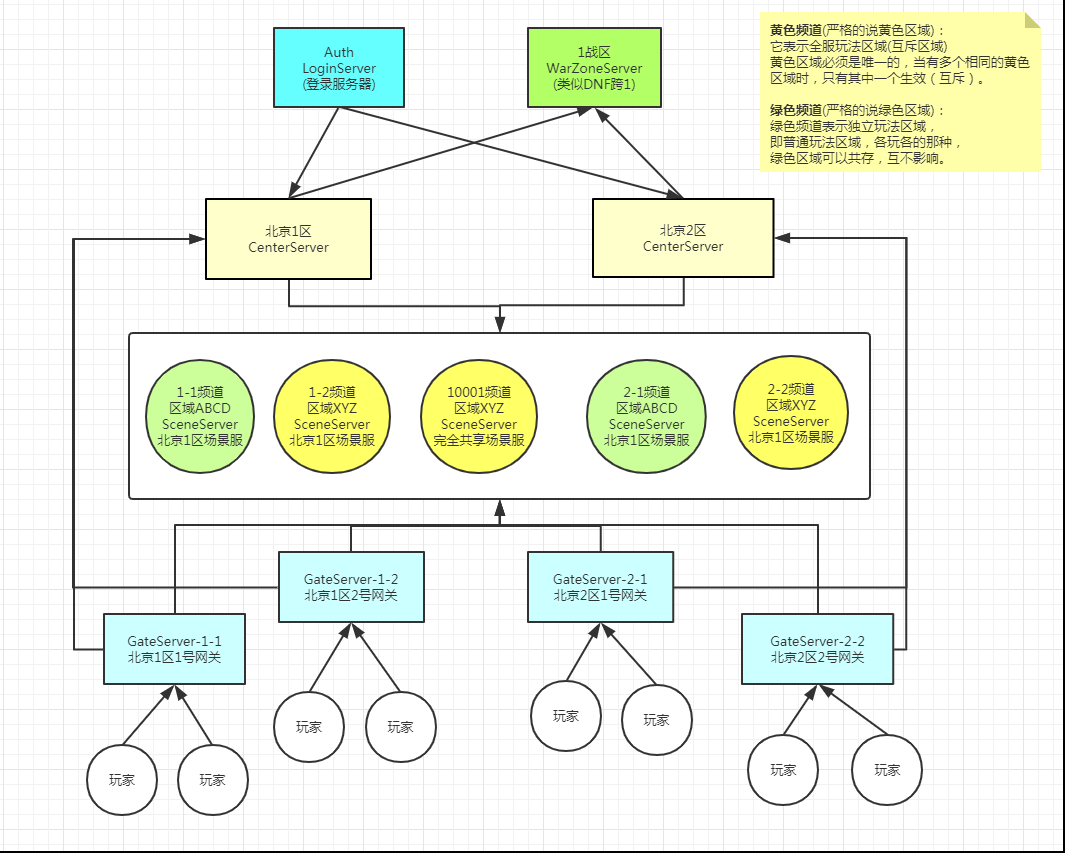
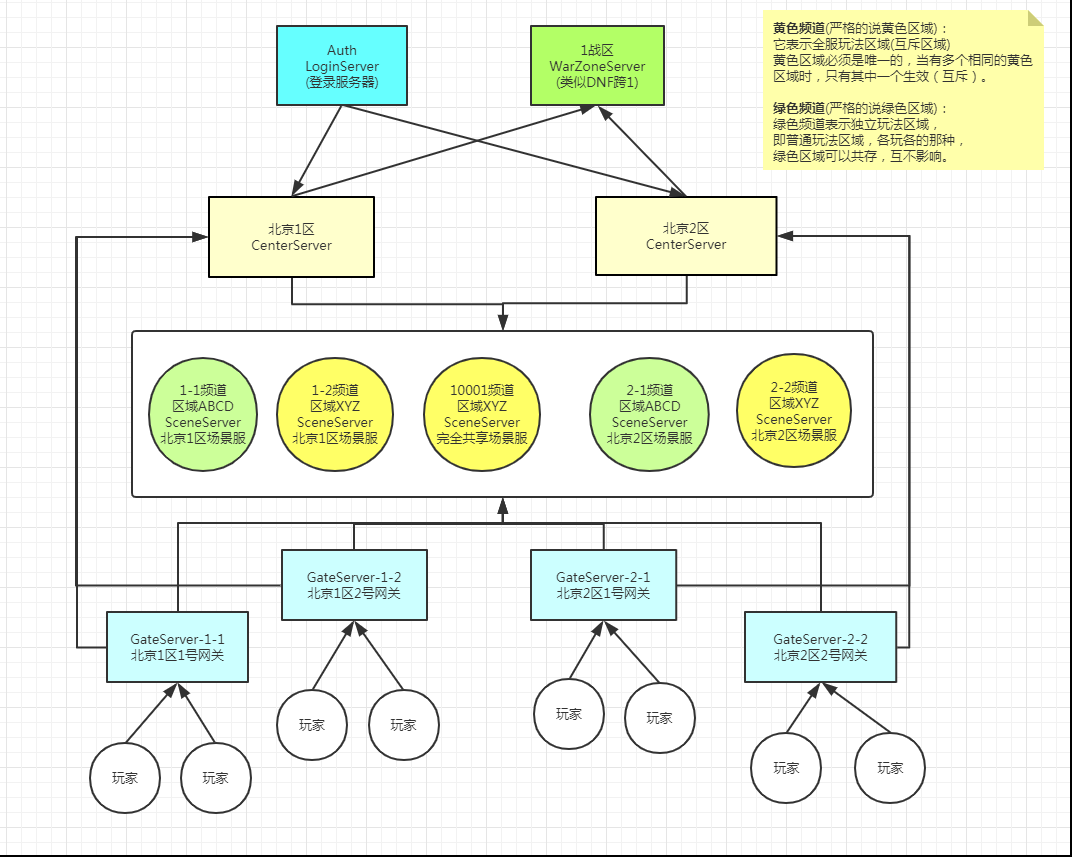
感觉后面可能演变成伪世界服架构。

Changed region(s): [[0.062, 0.0, 0.9915, 0.9754], [0.9296, 0.0, 0.9606, 0.0305], [0.0, 0.7315, 0.031, 0.762]]

diff --git a/game-centerserver/src/main/java/com/wjybxx/fastjgame/mgr/SceneInCenterInfoMgr.java b/game-centerserver/src/main/java/com/wjybxx/fastjgame/mgr/SceneInCenterInfoMgr.java
@@ -58,7 +58,7 @@ public class SceneInCenterInfoMgr {
     // 不可以是static的，否则会导致线程安全问题
     private final List<SceneInCenterInfo> availableSceneProcessListCache = new ArrayList<>(8);
 
-    private final CenterWorldInfoMgr centerWorldInfoMgr;
+    private final CenterWorldInfoMgr worldInfoMgr;
     private final TemplateMgr templateMgr;
     /**
      * 负载均衡策略，当玩家请求进入某个场景的时候，由chooser负责选择。
@@ -77,8 +77,8 @@ public class SceneInCenterInfoMgr {
     private final GameAcceptorMgr gameAcceptorMgr;
 
     @Inject
-    public SceneInCenterInfoMgr(CenterWorldInfoMgr centerWorldInfoMgr, TemplateMgr templateMgr, GameAcceptorMgr gameAcceptorMgr) {
-        this.centerWorldInfoMgr = centerWorldInfoMgr;
+    public SceneInCenterInfoMgr(CenterWorldInfoMgr worldInfoMgr, TemplateMgr templateMgr, GameAcceptorMgr gameAcceptorMgr) {
+        this.worldInfoMgr = worldInfoMgr;
         this.templateMgr = templateMgr;
         this.gameAcceptorMgr = gameAcceptorMgr;
     }
@@ -87,14 +87,14 @@ public class SceneInCenterInfoMgr {
         guid2InfoMap.put(sceneInCenterInfo.getWorldGuid(), sceneInCenterInfo);
         channelId2InfoMap.put(sceneInCenterInfo.getChanelId(), sceneInCenterInfo);
 
-        logger.info("add scene {} - {}", sceneInCenterInfo.getServerId(), sceneInCenterInfo.getChanelId());
+        logger.info("add scene {}-{}", sceneInCenterInfo.getServerId(), sceneInCenterInfo.getChanelId());
     }
 
     private void removeSceneInfo(SceneInCenterInfo sceneInCenterInfo) {
         guid2InfoMap.remove(sceneInCenterInfo.getWorldGuid());
         channelId2InfoMap.remove(sceneInCenterInfo.getChanelId());
 
-        logger.info("remove scene {} - {}", sceneInCenterInfo.getServerId(), sceneInCenterInfo.getChanelId());
+        logger.info("remove scene {}-{}", sceneInCenterInfo.getServerId(), sceneInCenterInfo.getChanelId());
     }
 
     public SceneInCenterInfo getSceneInfo(long worldGuid) {
@@ -172,7 +172,7 @@ public class SceneInCenterInfoMgr {
         @Override
         public void onSessionConnected(Session session) {
             getSceneInfo(session.remoteGuid()).setSession(session);
-            ICenterInSceneInfoMgrRpcProxy.connectScene(centerWorldInfoMgr.getPlatformType().getNumber(), centerWorldInfoMgr.getServerId())
+            ICenterInSceneInfoMgrRpcProxy.connectScene(worldInfoMgr.getPlatformType().getNumber(), worldInfoMgr.getServerId())
                     .onSuccess(result -> onConnectSceneSuccess(session, result))
                     .call(session);
         }
@@ -207,7 +207,8 @@ public class SceneInCenterInfoMgr {
             }
         }
 
-        if (sceneInCenterInfo.getServerId() != centerWorldInfoMgr.getServerId()) {
+        if (sceneInCenterInfo.getPlatformType() != worldInfoMgr.getPlatformType()
+                || sceneInCenterInfo.getServerId() != worldInfoMgr.getServerId()) {
             return;
         }
 

diff --git a/game-utils/src/main/java/com/wjybxx/fastjgame/misc/LongHolder.java b/game-utils/src/main/java/com/wjybxx/fastjgame/misc/LongHolder.java
@@ -13,33 +13,76 @@
  * See the License for the specific language governing permissions and
  * limitations under the License.
  */
+
 package com.wjybxx.fastjgame.misc;
 
+import javax.annotation.concurrent.NotThreadSafe;
+
 /**
- * long变量holder，在lambda表达式中使用
+ * long类型的序号分配器。
+ * 采用递增方式分配。
+ * 由于使用的地方还挺多，整合出一个类来。
  *
  * @author wjybxx
  * @version 1.0
- * date - 2019/5/14 16:04
+ * date - 2019/5/6 20:42
  * github - https://github.com/hl845740757
  */
-public class LongHolder {
-
+@NotThreadSafe
+public final class LongHolder {
+    /**
+     * 上一次分配的序号,也就是当前Sequence
+     */
     private long value;
 
     public LongHolder() {
-        this(0);
+        this(0L);
     }
 
-    public LongHolder(long value) {
-        this.value = value;
+    public LongHolder(long initSequence) {
+        this.value = initSequence;
     }
 
-    public long getValue() {
+    /**
+     * 获取当前值
+     *
+     * @return
+     */
+    public long get() {
         return value;
     }
 
-    public void setValue(long value) {
-        this.value = value;
+    /**
+     * 设置序号
+     *
+     * @param sequence 指定值
+     */
+    public void set(long sequence) {
+        this.value = sequence;
+    }
+
+    /**
+     * 返回之后+1
+     *
+     * @return
+     */
+    public long getAndInc() {
+        return value++;
+    }
+
+    /**
+     * +1之后返回
+     *
+     * @return
+     */
+    public long incAndGet() {
+        return ++value;
+    }
+
+    @Override
+    public String toString() {
+        return "LongHolder{" +
+                "value=" + value +
+                '}';
     }
 }

diff --git a/game-utils/src/main/java/com/wjybxx/fastjgame/misc/IntHolder.java b/game-utils/src/main/java/com/wjybxx/fastjgame/misc/IntHolder.java
@@ -13,33 +13,74 @@
  * See the License for the specific language governing permissions and
  * limitations under the License.
  */
+
 package com.wjybxx.fastjgame.misc;
 
+import javax.annotation.concurrent.NotThreadSafe;
+
 /**
- * int变量holder，在lambda表达式中使用
+ * int值包装。
  *
  * @author wjybxx
  * @version 1.0
- * date - 2019/5/14 16:03
+ * date - 2019/5/6 20:58
  * github - https://github.com/hl845740757
  */
+@NotThreadSafe
 public class IntHolder {
-
+    /**
+     * 上一次分配的序号,也就是当前Sequence
+     */
     private int value;
 
     public IntHolder() {
         this(0);
     }
 
-    public IntHolder(int value) {
-        this.value = value;
+    public IntHolder(int initSequence) {
+        this.value = initSequence;
     }
 
-    public int getValue() {
+    /**
+     * 获取当前值
+     *
+     * @return
+     */
+    public int get() {
         return value;
     }
 
-    public void setValue(int value) {
-        this.value = value;
+    /**
+     * 设置序号
+     *
+     * @param sequence
+     */
+    public void set(int sequence) {
+        this.value = sequence;
+    }
+
+    /**
+     * 返回之后+1
+     *
+     * @return
+     */
+    public int getAndInc() {
+        return value++;
+    }
+
+    /**
+     * +1之后返回
+     *
+     * @return
+     */
+    public int incAndGet() {
+        return ++value;
+    }
+
+    @Override
+    public String toString() {
+        return "IntHolder{" +
+                "value=" + value +
+                '}';
     }
 }

diff --git a/game-centerserver/src/test/java/com/wjybxx/fastjgame/test/UpdateEventTest.java b/game-centerserver/src/test/java/com/wjybxx/fastjgame/test/UpdateEventTest.java
@@ -18,7 +18,7 @@ package com.wjybxx.fastjgame.test;
 
 import com.google.inject.Guice;
 import com.google.inject.Injector;
-import com.wjybxx.fastjgame.misc.IntSequencer;
+import com.wjybxx.fastjgame.misc.IntHolder;
 import com.wjybxx.fastjgame.module.CenterModule;
 import com.wjybxx.fastjgame.module.WorldGroupModule;
 import com.wjybxx.fastjgame.mgr.CuratorMgr;
@@ -53,10 +53,10 @@ public class UpdateEventTest {
         final String pathA = ZKPaths.makePath(parentPath, "a");
         final String pathB = ZKPaths.makePath(parentPath, "b");
 
-        IntSequencer intSequencer = new IntSequencer(0);
+        IntHolder intHolder = new IntHolder(0);
 
-        while (intSequencer.get() < 1000) {
-            byte[] data = GameUtils.serializeToStringBytes(intSequencer.incAndGet());
+        while (intHolder.get() < 1000) {
+            byte[] data = GameUtils.serializeToStringBytes(intHolder.incAndGet());
 
             curatorMgr.delete(pathA);
             curatorMgr.createNodeIfAbsent(pathA, CreateMode.EPHEMERAL, data);

diff --git a/game-centerserver/src/main/java/com/wjybxx/fastjgame/misc/SceneInCenterInfo.java b/game-centerserver/src/main/java/com/wjybxx/fastjgame/misc/SceneInCenterInfo.java
@@ -57,7 +57,7 @@ public class SceneInCenterInfo {
      * 在线玩家数量计数器。
      * 本服玩家在当前scene的数量。
      */
-    private final IntSequencer onlinePlayerSequencer = new IntSequencer(0);
+    private final IntHolder onlinePlayerSequencer = new IntHolder(0);
     /**
      * 会话信息
      */
@@ -92,7 +92,7 @@ public class SceneInCenterInfo {
         return activeRegions;
     }
 
-    public IntSequencer getOnlinePlayerSequencer() {
+    public IntHolder getOnlinePlayerSequencer() {
         return onlinePlayerSequencer;
     }
 

diff --git a/game-utils/src/main/java/com/wjybxx/fastjgame/misc/ObjectHolder.java b/game-utils/src/main/java/com/wjybxx/fastjgame/misc/ObjectHolder.java
@@ -15,6 +15,8 @@
  */
 package com.wjybxx.fastjgame.misc;
 
+import javax.annotation.concurrent.NotThreadSafe;
+
 /**
  * 引用类型实例持有者，在lambda表达式中使用
  *
@@ -23,6 +25,7 @@ package com.wjybxx.fastjgame.misc;
  * date - 2019/5/14 16:03
  * github - https://github.com/hl845740757
  */
+@NotThreadSafe
 public class ObjectHolder<T> {
 
     private T value;

diff --git a/game-utils/src/main/java/com/wjybxx/fastjgame/misc/DoubleHolder.java b/game-utils/src/main/java/com/wjybxx/fastjgame/misc/DoubleHolder.java
@@ -16,6 +16,8 @@
 
 package com.wjybxx.fastjgame.misc;
 
+import javax.annotation.concurrent.NotThreadSafe;
+
 /**
  * double数值holder，用于lambda表达式
  *
@@ -24,6 +26,7 @@ package com.wjybxx.fastjgame.misc;
  * date - 2019/5/22 11:11
  * github - https://github.com/hl845740757
  */
+@NotThreadSafe
 public class DoubleHolder {
 
     private double value;

diff --git a/game-utils/src/main/java/com/wjybxx/fastjgame/misc/BooleanHolder.java b/game-utils/src/main/java/com/wjybxx/fastjgame/misc/BooleanHolder.java
@@ -16,6 +16,8 @@
 
 package com.wjybxx.fastjgame.misc;
 
+import javax.annotation.concurrent.NotThreadSafe;
+
 /**
  * Bool值持对象，用于lambda表达式
  *
@@ -24,6 +26,7 @@ package com.wjybxx.fastjgame.misc;
  * date - 2019/8/24
  * github - https://github.com/hl845740757
  */
+@NotThreadSafe
 public class BooleanHolder {
 
     private boolean value;

diff --git a/历史重要更新.MD b/历史重要更新.MD
@@ -1,11 +1,12 @@
 #### 历史重要更新
 
-#### 场景服架构调整
-删除纯粹的单服场景服，即每个场景服即提供单服玩法，也提供跨服玩法。
+#### 场景服架构调整 2019年10月31日
+删除纯粹的单服场景服，即每个场景服即提供单服玩法，也提供跨服玩法。该架构有以下优势：  
 1. 可以实现更好的负载均衡和高可用。  
-2. 可以支持更多的跨服互动。
+2. 可以支持更多的跨服互动。  
+PS: 有点伪世界服架构的感觉。
 
-#### 使用EventBus重写了NetEventLoop和NetEventLoop中的接口
+#### 使用EventBus重写了NetEventLoop和NetEventLoop中的接口2019年10月27日
 使用EventBus有好有坏，我也是纠结了很久才决定改造的。  
 EventBus对于解耦和接口演进很有用，对于性能肯定是会拖慢一点的，另外也会造成可读性的下降。  
 Q: 有时候做选择的时候会纠结，为什么纠结呢？  
